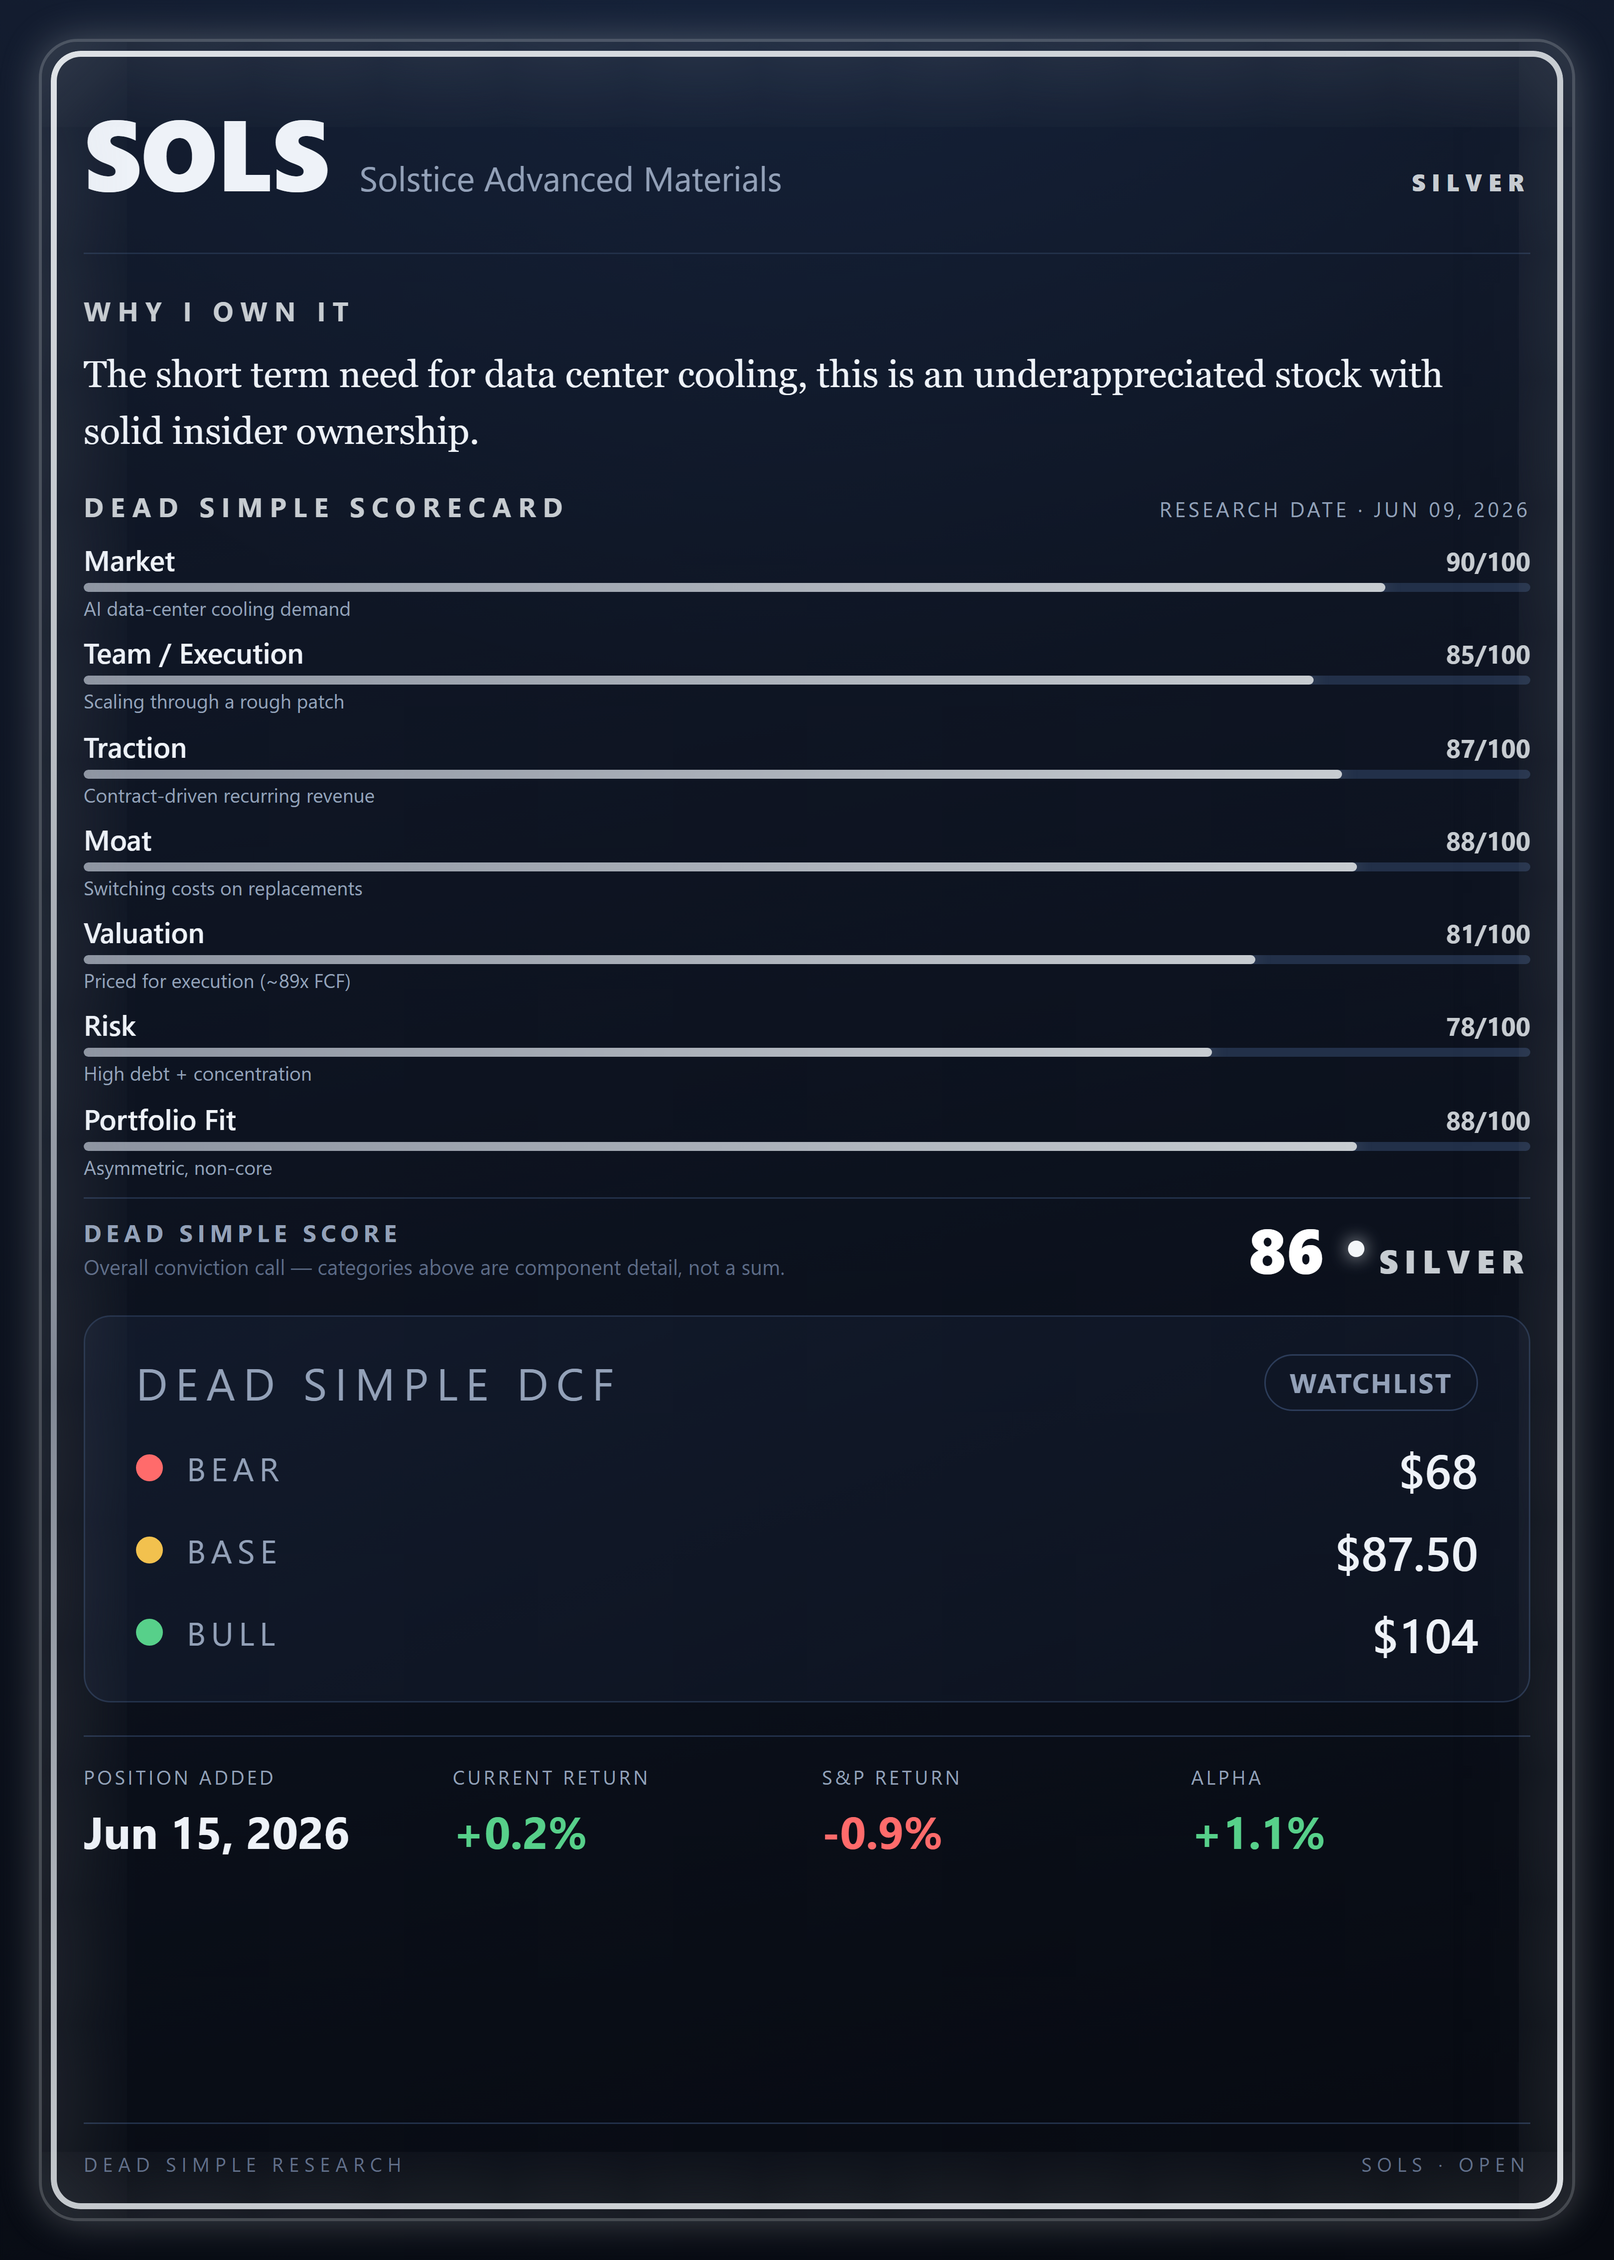
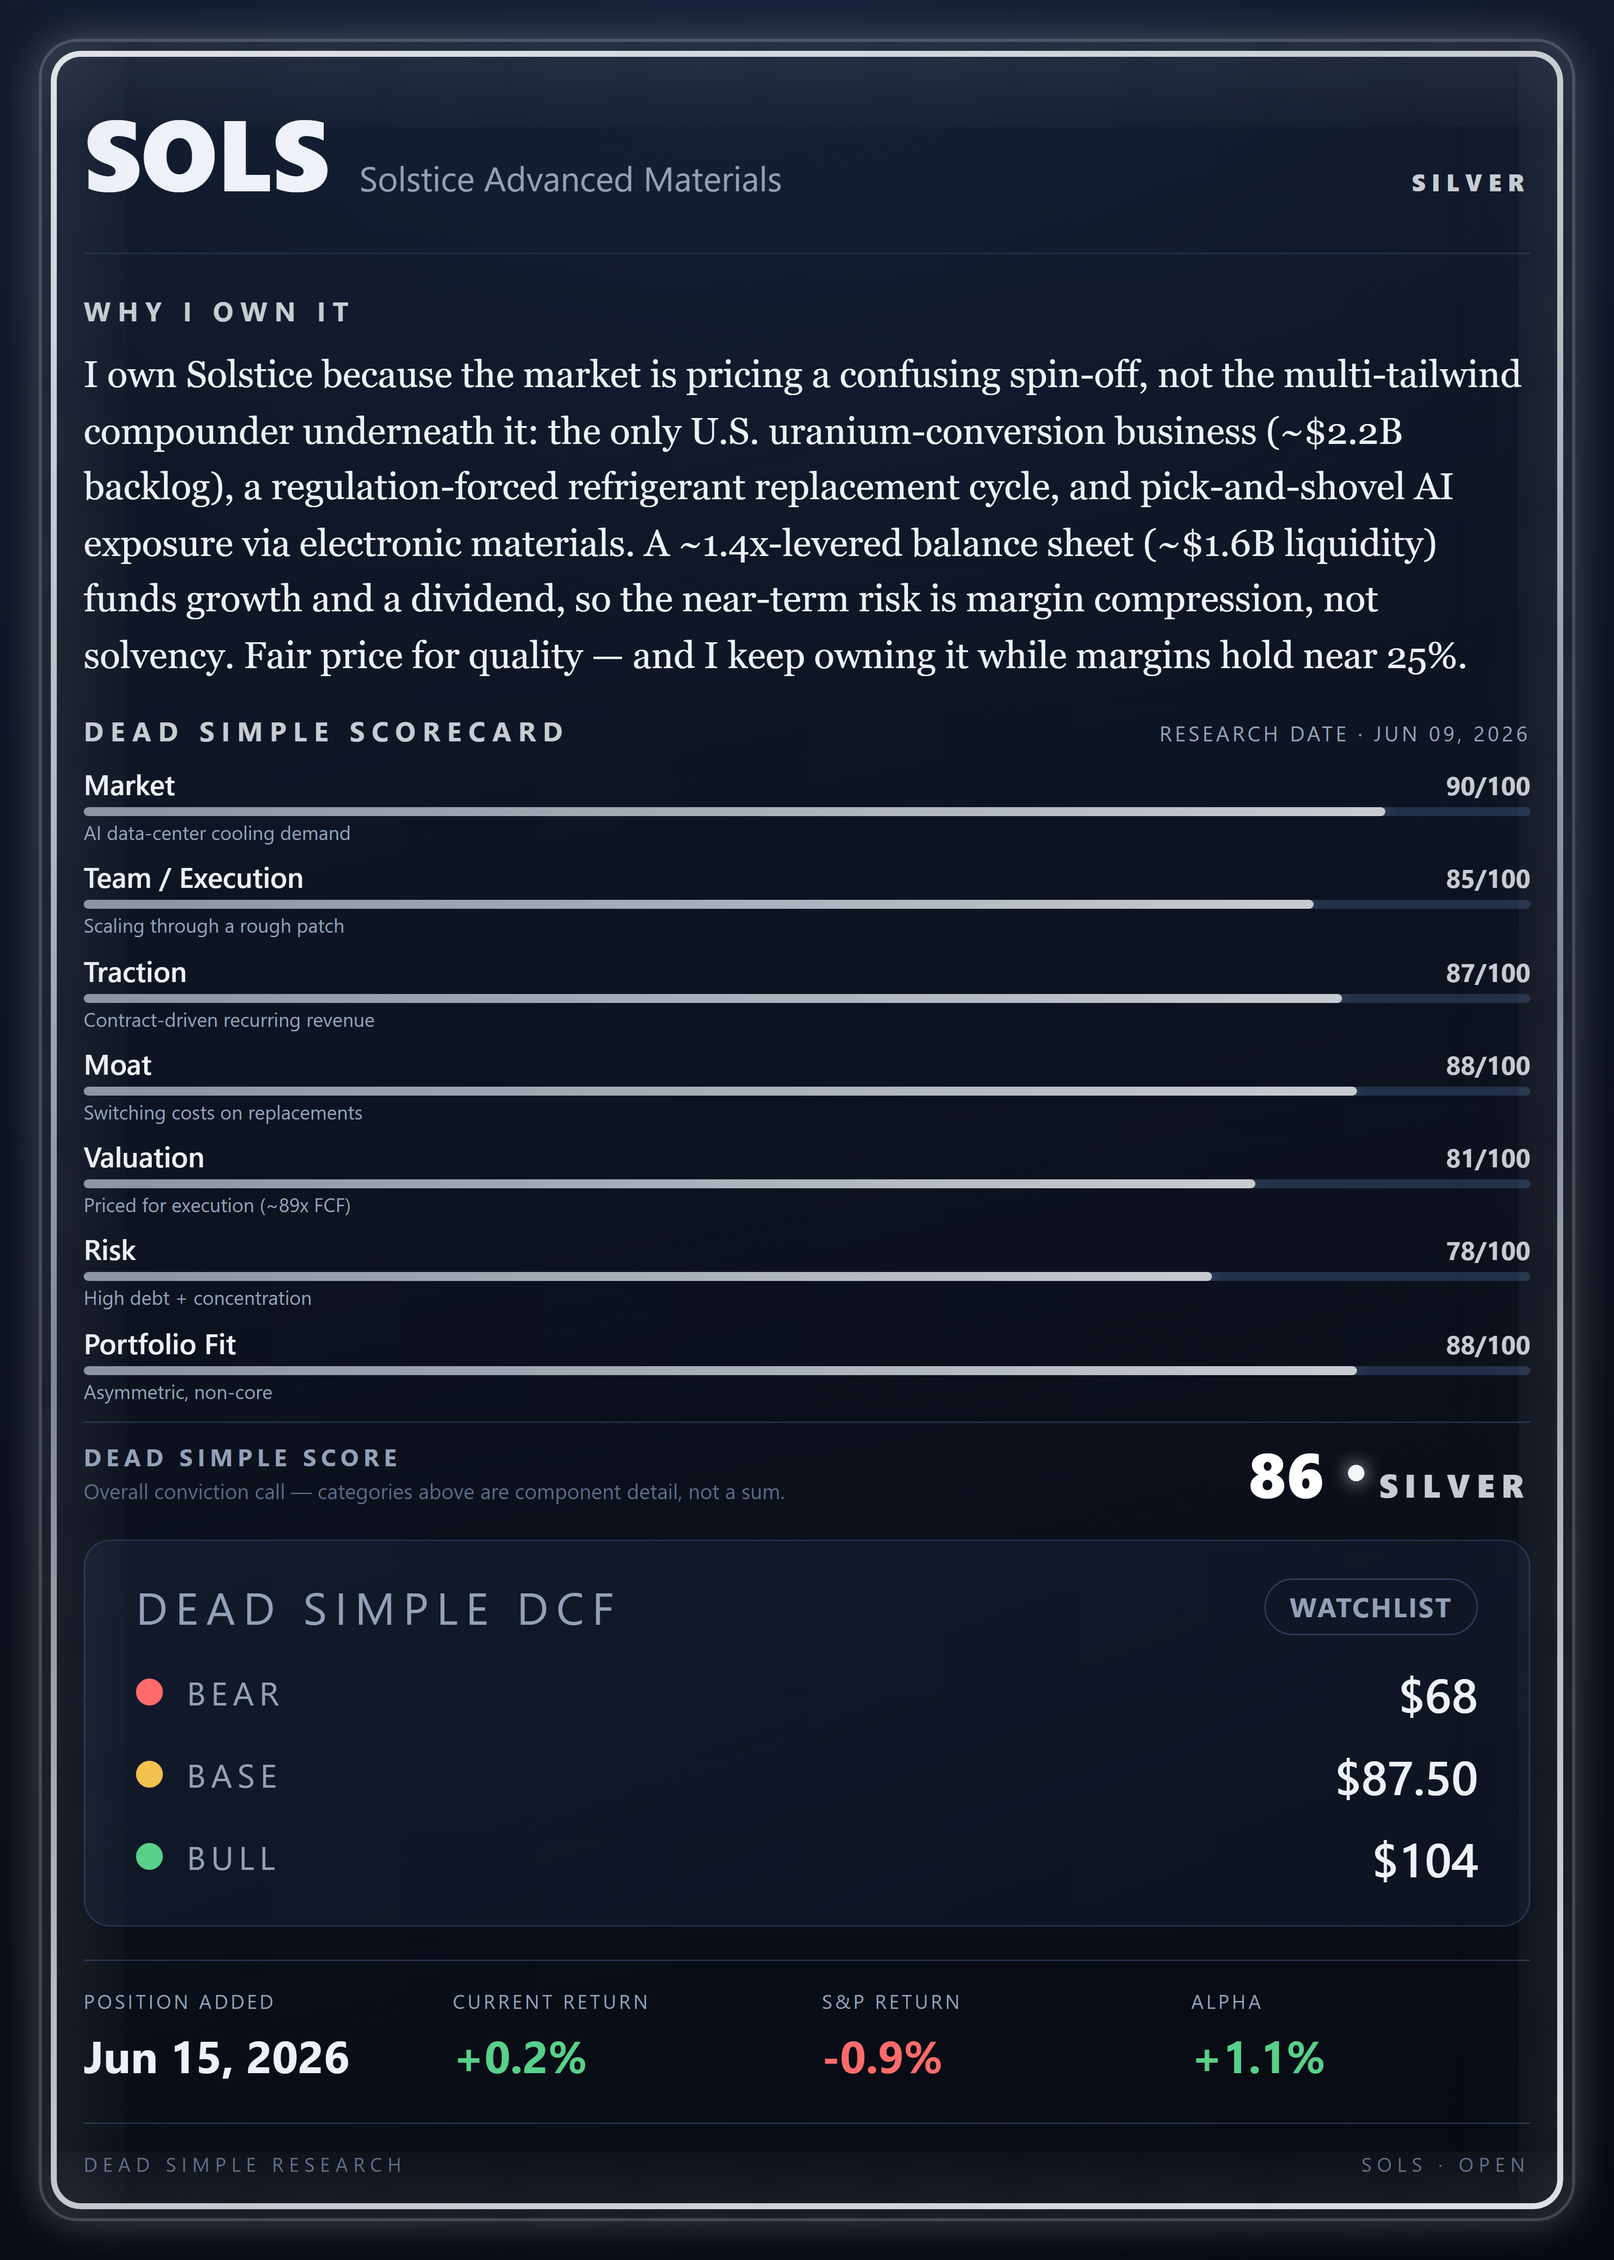
Publish SOLS

diff --git a/cards/SOLS/card.html b/cards/SOLS/card.html
@@ -952,7 +952,7 @@ html, body {
 
     <div class="section">
       <div class="label">Why I Own It</div>
-      <div class="body thesis">The short term need for data center cooling, this is an underappreciated stock with solid insider ownership.</div>
+      <div class="body thesis">I own Solstice because the market is pricing a confusing spin-off, not the multi-tailwind compounder underneath it: the only U.S. uranium-conversion business (~$2.2B backlog), a regulation-forced refrigerant replacement cycle, and pick-and-shovel AI exposure via electronic materials. A ~1.4x-levered balance sheet (~$1.6B liquidity) funds growth and a dividend, so the near-term risk is margin compression, not solvency. Fair price for quality — and I keep owning it while margins hold near 25%.</div>
     </div>
 
     

diff --git a/cards/SOLS/README.md b/cards/SOLS/README.md
@@ -32,9 +32,9 @@ Copy this whole folder into the site repo at `public/cards/SOLS/`, then:
 
 The performance block (current return / S&P return / alpha) is a snapshot taken
 when this package was generated (`performance.mode = "live"`). To refresh it,
-re-run `python make_media.py 20260609_141855` and re-upload this folder.
+re-run `python make_media.py SOLS` and re-upload this folder.
 
 When the position is closed (`python card_lifecycle.py close SOLS`), the
 numbers freeze at the close (`performance.mode = "frozen"`) and no longer change.
 
-Status: Watchlist | Dead Simple Score: 86/100 | Schema v1
+Status: Open | Dead Simple Score: 86/100 | Schema v1
